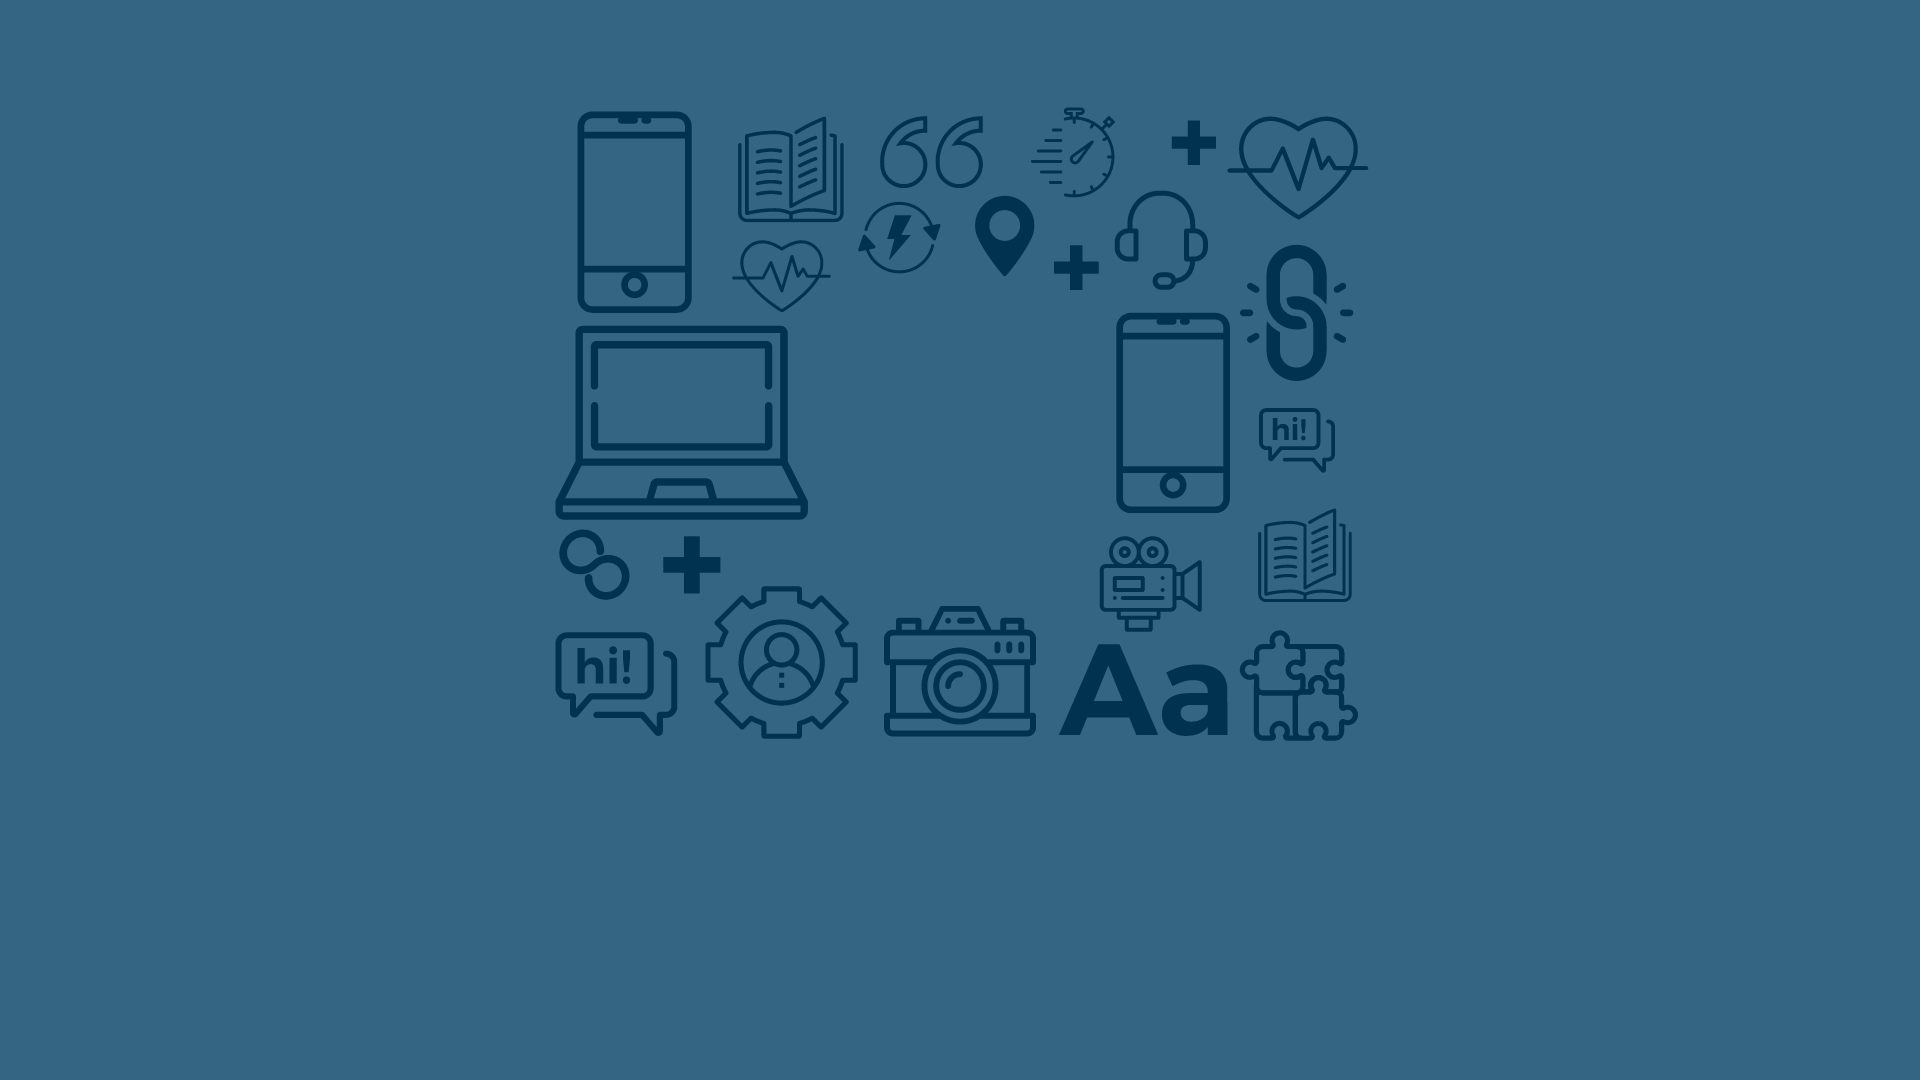
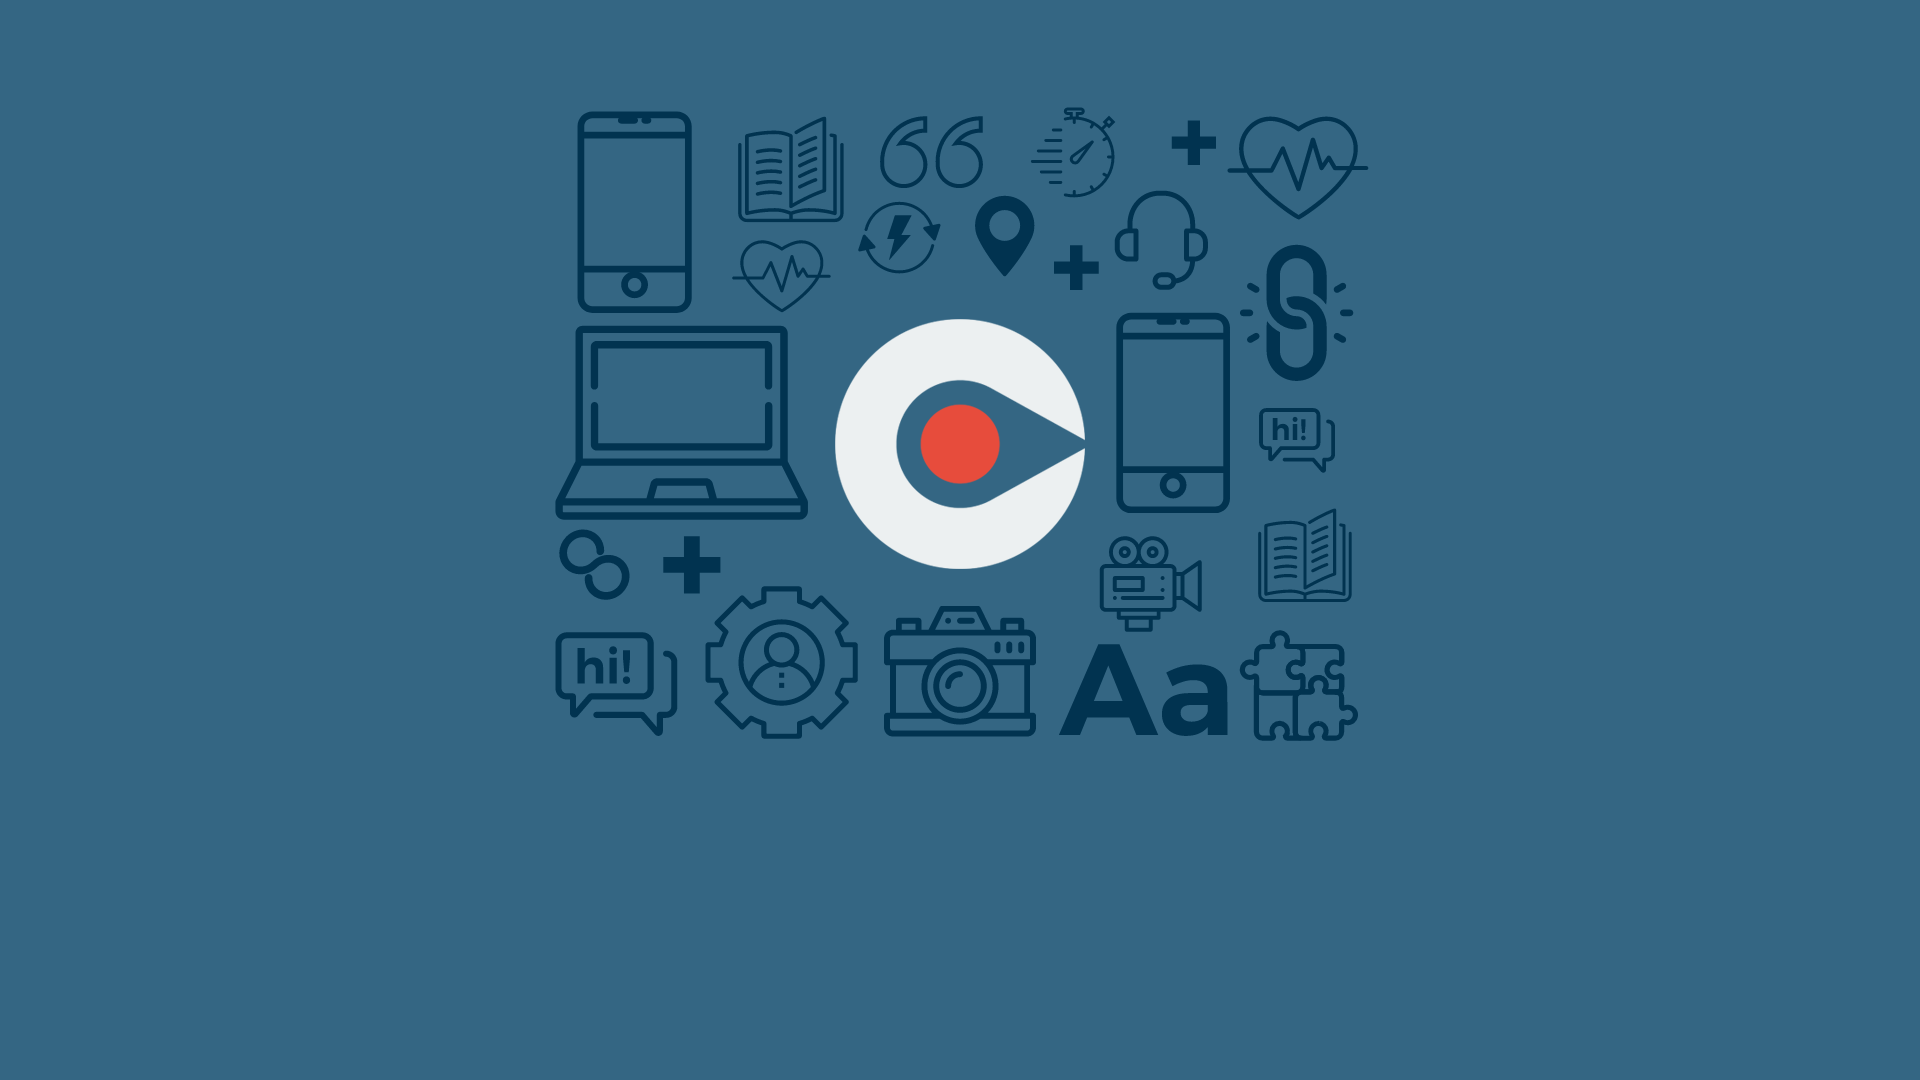
hoang.pham

Changed region(s): [[0.4375, 0.275, 0.5625, 0.55]]

diff --git a/public/stylesheets/splash.css b/public/stylesheets/splash.css
@@ -3,12 +3,12 @@ html, body {
     height: 100%;
     background-color: #ffffff;
     font-family: 'Josefin Sans', sans-serif;
-    font-color: white;
+    color: white;
 }
 
 .carousel-indicators li {
     display: block; 
-    margin-bottom: 5px; 
+    margin-bottom: 5px;
     border: 1px solid #fff; 
 }
 .carousel-indicators li.active {
@@ -74,7 +74,13 @@ html, body {
 /*------------------------------- 1st Login Page ------------------------------*/
 
 .First {
-    background: url('/images/splash_bg.jpg') no-repeat center;
+    position: absolute;
+    width: 100%;
+    height: 100%;
+}
+
+#particles-js {
+    background: url('/images/splash_bg.png') no-repeat;
     background-size: cover;
 }
 
@@ -84,10 +90,10 @@ html, body {
     margin-left: auto;
     margin-right: auto;
     max-width: 400px;
-    padding-top: 180px;
+    padding-top: 118px;
     padding-bottom: -5px;
     color: white;
-    font-size: 80px;
+    font-size: 68px;
     font-family: 'Josefin Sans', sans-serif;
     text-align: center;
     font-weight: normal;
@@ -100,7 +106,7 @@ html, body {
     font-family: 'Josefin Slab', serif;
     font-size: large;
     margin-top: -10px;
-    font-weight: normal;
+    font-weight: bold;
 }
 
 .buttonOne {
@@ -108,13 +114,13 @@ html, body {
     margin-left: auto;
     margin-right: auto;
     background-color: #DC4244; 
-    width: 300px;
-    height: 60px;
+    width: 255px;
+    height: 57px;
     font-size: 24px;
     color: white;
     margin-top: 35px;
     border: none;
-    border-radius: 5px;
+    border-radius: 10px;
 }
 
 .buttonTwo {
@@ -122,14 +128,14 @@ html, body {
     margin-left: auto;
     margin-right: auto;
     background-color: #313E50; 
-    width: 300px;
-    height: 60px;
+    width: 255px;
+    height: 57px;
     font-size: 24px;
     color: white;
     border-radius: 10px;
     margin-top: 10px;
     border: none;
-    border-radius: 5px;
+    border-radius: 10px;
 }
 
 .footer {
@@ -137,7 +143,7 @@ html, body {
     left: 0;
     bottom: 0;
     width: 100%;
-    height: 50px;
+    height: 49px;
     color: white;
     text-align: center;
     line-height: 35px;
@@ -201,27 +207,32 @@ html, body {
     border-radius: 3px;
 }
 
-.content1 h1 {
+.Second .content1 h1 {
     text-align: center;
     color: #ffffff;
     font-weight: normal;
-    padding-top: 100px;
+    padding-top: 80px;
     padding-bottom: 30px;
 }
 
-.content1 p {
-    text-align: center;
+.Second .content1 p {
     color: #ffffff;
     font-weight: normal;
     font-size: large;
     margin: 30px;
 }
 
-.content1 h3 {
+.Second .content1 h4 {
     text-align: center;
     color: #ffffff;
     font-weight: normal;
     margin-top: -30px;
+}
+
+.Second .content1 h3 {
+    color: #ffffff;
+    font-weight: normal;
+    margin: 30px;
 }
 
 /*------------------------------- How it works? ------------------------------*/
@@ -240,7 +251,7 @@ html, body {
     padding-bottom: 10px;
 }
 
-.content2 h1 {
+.content2 h2 {
     text-align: center;
     color: #ffffff;
     font-size: 50px;
@@ -264,16 +275,6 @@ html, body {
     -moz-background-size: cover;
     -o-background-size: cover;
     background-size: cover;
-}
-
-.small-logo a img {
-    display: block;
-    align-content: center;
-    margin-left: auto;
-    margin-right: auto;.
-    max-height: 150px;
-    max-width: 150px;
-    padding-top: 9.8%;
 }
 
 .content3 h2 {
@@ -369,13 +370,13 @@ html, body {
         margin-left: auto;
         margin-right: auto;
         background-color: #DC4244; 
-        width: 275px;
-        height: 48px;
+        width: 255px;
+        height: 57px;
         font-size: 24px;
         color: white;
         margin-top: 35px;
         border: none;
-        border-radius: 5px;
+        border-radius: 10px;
     }
 
     .buttonTwo {
@@ -383,13 +384,12 @@ html, body {
         margin-left: auto;
         margin-right: auto;
         background-color: #313E50; 
-        width: 275px;
-        height: 48px;
+        width: 255px;
+        height: 57px;
         font-size: 24px;
         color: white;
-        border-radius: 10px;
         margin-top: 10px;
         border: none;
-        border-radius: 5px;
+        border-radius: 10px;
     }
 }
